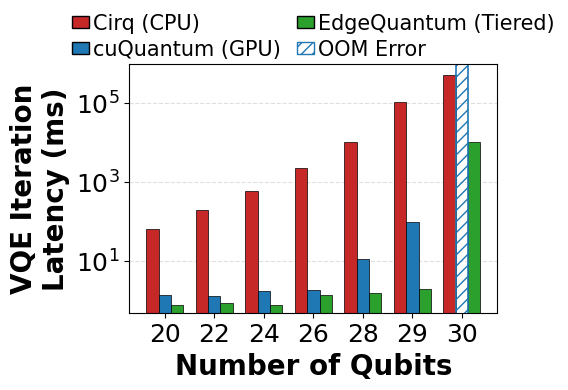
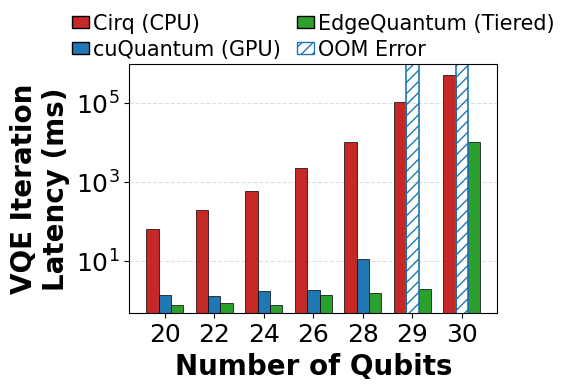
Updates from Overleaf

Changed region(s): [[0.6884, 0.1538, 0.7482, 0.8]]

diff --git a/4_Evaluation.tex b/4_Evaluation.tex
@@ -11,118 +11,148 @@
 
 \changjong{Need new experiment}
 
-\subsection{Performance Analysis: 29-34 Qubits}
-
-\subsection{Extreme Scalability: 35–39 Qubits}
-
-\subsection{I/O Breakdown (why it works)}
-\subsection{Storage Efficiency (compression)}
-\subsection{Fidelity (correctness)}
-\subsection{Ablation Study (component contribution)}
-
-
-\subsection{Performance Analysis: 29--34 Qubits}
-\label{sec:perf_analysis}
-
-Figure~\ref{fig:speedup_34q} and Table~\ref{tab:main_results} compare the simulation time of \EdgeQuantum against the \textit{BMQSim-like} baseline across state vector sizes ranging from 4\,GB (29 qubits) to 128\,GB (34 qubits).
-This range represents the "Tiered Memory" regime where the state vector exceeds the 8\,GB physical memory of the device but fits within the SSD capacity without compression.
-
-\noindent\textbf{Overall Speedup.}
-\EdgeQuantum consistently outperforms the blocking I/O baseline across all circuit types and qubit counts.
-The speedup becomes more pronounced as the problem size increases.
-For example, at 29 qubits (4\,GB), where the OS page cache still provides some benefit, the speedup is modest (approx. 1.09--1.18$\times$).
-However, at 33--34 qubits (64--128\,GB), where I/O contention becomes the dominant bottleneck, \EdgeQuantum achieves significant gains.
-Notably, for the QSVM circuit at 33 qubits, \EdgeQuantum reduces the runtime from 430.7s to 291.4s, achieving a peak speedup of \textbf{1.48$\times$}.
-Similarly, for the VQC circuit at 31 qubits, \EdgeQuantum achieves a \textbf{1.45$\times$} speedup (254.7s vs. 175.6s).
-These results confirm that our 4-buffer pipeline effectively hides the NVMe write latency, which is the primary bottleneck in TLC-based consumer SSDs.
+\subsection{Tiered Performance Analysis: 29-34 Qubits}
 
 \begin{table}[t]
 \centering
-\caption{Simulation time comparison (in seconds) between BMQSim-like (Block) and \EdgeQuantum (Async) for Depth=5. Speedup is shown in parentheses.}
+\caption{Simulation time comparison (in seconds) between BMQSim-like (Block) and \EdgeQuantum (Async) for Depth=5.}
+\setlength{\tabcolsep}{3pt}
 \resizebox{\columnwidth}{!}{%
-\begin{tabular}{|l|rr|rr|rr|}
+\begin{tabular}{|l|rr|rr|rr|rr|rr|}
 \hline
-\textbf{Circuit} & \multicolumn{2}{c|}{\textbf{32 Qubits (32\,GB)}} & \multicolumn{2}{c|}{\textbf{33 Qubits (64\,GB)}} & \multicolumn{2}{c|}{\textbf{34 Qubits (128\,GB)}} \\
-& \multicolumn{1}{c}{Block} & \multicolumn{1}{c|}{\textbf{EdgeQ}} & \multicolumn{1}{c}{Block} & \multicolumn{1}{c|}{\textbf{EdgeQ}} & \multicolumn{1}{c}{Block} & \multicolumn{1}{c|}{\textbf{EdgeQ}} \\
+\textbf{Circuit} & \multicolumn{2}{c|}{\textbf{30Q (8\,GB)}} & \multicolumn{2}{c|}{\textbf{31Q (16\,GB)}} & \multicolumn{2}{c|}{\textbf{32Q (32\,GB)}} & \multicolumn{2}{c|}{\textbf{33Q (64\,GB)}} & \multicolumn{2}{c|}{\textbf{34Q (128\,GB)}} \\
+ & \multicolumn{1}{c}{Blk} & \multicolumn{1}{c|}{\textbf{EdgeQ}} & \multicolumn{1}{c}{Blk} & \multicolumn{1}{c|}{\textbf{EdgeQ}} & \multicolumn{1}{c}{Blk} & \multicolumn{1}{c|}{\textbf{EdgeQ}} & \multicolumn{1}{c}{Blk} & \multicolumn{1}{c|}{\textbf{EdgeQ}} & \multicolumn{1}{c}{Blk} & \multicolumn{1}{c|}{\textbf{EdgeQ}} \\
 \hline
-QV      & 450.4 & \textbf{352.9} (1.28$\times$) & 920.8 & \textbf{727.1} (1.27$\times$) & 1853.8 & \textbf{1462.6} (1.27$\times$) \\
-VQC     & 514.8 & \textbf{361.7} (1.42$\times$) & 1017.9 & \textbf{756.8} (1.34$\times$) & 2069.0 & \textbf{1483.9} (1.39$\times$) \\
-QSVM    & 203.3 & \textbf{144.7} (1.40$\times$) & 430.7 & \textbf{291.4} (1.48$\times$) & 849.7 & \textbf{593.1} (1.43$\times$) \\
-Random  & 484.7 & \textbf{357.2} (1.36$\times$) & 974.9 & \textbf{722.7} (1.35$\times$) & 1963.5 & \textbf{1463.9} (1.34$\times$) \\
-GHZ     & 85.4 & \textbf{70.4} (1.21$\times$) & 173.5 & \textbf{143.5} (1.21$\times$) & 351.1 & \textbf{290.2} (1.21$\times$) \\
-VQE     & 509.5 & \textbf{361.0} (1.41$\times$) & 1027.9 & \textbf{738.1} (1.39$\times$) & 2050.3 & \textbf{1473.9} (1.39$\times$) \\
+QV & 57.7 & \textbf{48.5} & 207.6 & \textbf{171.3} & 450.4 & \textbf{352.9} & 920.8 & \textbf{727.1} & 1853.8 & \textbf{1462.6} \\
+VQC & 95.2 & \textbf{76.9} & 254.7 & \textbf{175.6} & 514.8 & \textbf{361.7} & 1017.9 & \textbf{756.8} & 2069.0 & \textbf{1483.8} \\
+QSVM & 33.9 & \textbf{30.8} & 102.2 & \textbf{70.4} & 203.3 & \textbf{144.7} & 430.7 & \textbf{291.4} & 849.7 & \textbf{593.1} \\
+Random & 67.0 & \textbf{57.8} & 233.9 & \textbf{169.9} & 484.7 & \textbf{357.2} & 974.9 & \textbf{722.7} & 1963.5 & \textbf{1463.9} \\
+GHZ & 10.4 & \textbf{8.6} & 40.8 & \textbf{33.5} & 85.4 & \textbf{70.4} & 173.5 & \textbf{143.5} & 351.1 & \textbf{290.2} \\
+VQE & 84.7 & \textbf{76.9} & 259.0 & \textbf{176.9} & 509.5 & \textbf{361.0} & 1027.9 & \textbf{738.1} & 2050.3 & \textbf{1473.9} \\
 \hline
 \end{tabular}%
 }
 \label{tab:main_results}
 \end{table}
 
-\noindent\textbf{Circuit Characteristics.}
-The performance gain varies by circuit complexity.
-\textit{High-complexity circuits} (VQC, VQE, Random), which involve dense gate operations and frequent state vector updates, benefit most from the pipeline.
-For VQC at 34 qubits, \EdgeQuantum saves nearly 10 minutes of runtime (2069s $\to$ 1483s).
-This is because the heavy GPU computation (approx. 220ms per chunk) provides ample time window to hide the slow NVMe write operations (approx. 450ms) via the 4-buffer overlap.
-In contrast, \textit{Low-complexity circuits} (GHZ) show a stable but lower speedup of $\sim$1.21$\times$.
-Since GHZ involves very few gates per layer, the GPU compute time is too short to fully hide the write latency, yet \EdgeQuantum still outperforms the blocking baseline by avoiding read/write contention.
+\begin{comment}
+\begin{table}[t]
+\centering
+\caption{Simulation time comparison (in seconds) between BMQSim-like (Block) and \EdgeQuantum (Async) for Depth=5.}
+\setlength{\tabcolsep}{3pt} % 컬럼 간격 축소
+\resizebox{\columnwidth}{!}{%
+\begin{tabular}{|l|rr|rr|rr|rr|rr|rr|}
+\hline
+\textbf{Circuit} & \multicolumn{2}{c|}{\textbf{29Q (4\,GB)}} & \multicolumn{2}{c|}{\textbf{30Q (8\,GB)}} & \multicolumn{2}{c|}{\textbf{31Q (16\,GB)}} & \multicolumn{2}{c|}{\textbf{32Q (32\,GB)}} & \multicolumn{2}{c|}{\textbf{33Q (64\,GB)}} & \multicolumn{2}{c|}{\textbf{34Q (128\,GB)}} \\
+ & \multicolumn{1}{c}{Blk} & \multicolumn{1}{c|}{\textbf{EdgeQ}} & \multicolumn{1}{c}{Blk} & \multicolumn{1}{c|}{\textbf{EdgeQ}} & \multicolumn{1}{c}{Blk} & \multicolumn{1}{c|}{\textbf{EdgeQ}} & \multicolumn{1}{c}{Blk} & \multicolumn{1}{c|}{\textbf{EdgeQ}} & \multicolumn{1}{c}{Blk} & \multicolumn{1}{c|}{\textbf{EdgeQ}} & \multicolumn{1}{c}{Blk} & \multicolumn{1}{c|}{\textbf{EdgeQ}} \\
+\hline
+QV & 29.0 & \textbf{24.6} & 57.7 & \textbf{48.5} & 207.6 & \textbf{171.3} & 450.4 & \textbf{352.9} & 920.8 & \textbf{727.1} & 1853.8 & \textbf{1462.6} \\
+VQC & 42.4 & \textbf{38.4} & 95.2 & \textbf{76.9} & 254.7 & \textbf{175.6} & 514.8 & \textbf{361.7} & 1017.9 & \textbf{756.8} & 2069.0 & \textbf{1483.8} \\
+QSVM & 16.9 & \textbf{15.5} & 33.9 & \textbf{30.8} & 102.2 & \textbf{70.4} & 203.3 & \textbf{144.7} & 430.7 & \textbf{291.4} & 849.7 & \textbf{593.1} \\
+Random & 33.5 & \textbf{29.0} & 67.0 & \textbf{57.8} & 233.9 & \textbf{169.9} & 484.7 & \textbf{357.2} & 974.9 & \textbf{722.7} & 1963.5 & \textbf{1463.9} \\
+GHZ & 5.2 & \textbf{4.3} & 10.4 & \textbf{8.6} & 40.8 & \textbf{33.5} & 85.4 & \textbf{70.4} & 173.5 & \textbf{143.5} & 351.1 & \textbf{290.2} \\
+VQE & 42.4 & \textbf{38.3} & 84.7 & \textbf{76.9} & 259.0 & \textbf{176.9} & 509.5 & \textbf{361.0} & 1027.9 & \textbf{738.1} & 2050.3 & \textbf{1473.9} \\
+\hline
+\end{tabular}%
+}
+\label{tab:main_results}
+\end{table}    
+\end{comment}
+
+
+
+
+
+\subsection{I/O Breakdown (why it works)}
+
+\begin{table*}[t]
+\centering
+\tiny
+\caption{Detailed I/O Breakdown (seconds) and Speedup from 32 to 34 Qubits.}
+\resizebox{\textwidth}{!}{%
+\begin{tabular}{|c|c|rrrr|rrrr|r|}
+\hline
+\multirow{2}{*}{\textbf{Qubits}} & \multirow{2}{*}{\textbf{Circuit}} & \multicolumn{4}{c|}{\textbf{Baseline (Block I/O + cudaMemcpy)}} & \multicolumn{4}{c|}{\textbf{\EdgeQuantum (Async UVM Zero-copy)}} & \multirow{2}{*}{\textbf{Speedup}} \\
+\cline{3-10}
+ & & \textbf{Read} & \textbf{Comp} & \textbf{Write} & \textbf{Total} & \textbf{Read} & \textbf{Comp} & \textbf{Write} & \textbf{Total} & \\
+\hline
+\multirow{3}{*}{32q}
+ & VQC & 142.3 & 3.3 & 369.2 & 514.8 & 81.3 & 3.2 & 277.3 & 361.7 & \textbf{1.42$\times$} \\
+ & GHZ & 25.2 & 0.5 & 59.7 & 85.4 & 15.6 & 0.5 & 54.4 & 70.4 & \textbf{1.21$\times$} \\
+ & VQE & 140.0 & 3.2 & 366.3 & 509.5 & 84.2 & 3.1 & 273.8 & 361.0 & \textbf{1.41$\times$} \\
+\hline
+\multirow{3}{*}{33q}
+ & VQC & 292.8 & 6.5 & 718.6 & 1017.9 & 177.4 & 6.3 & 573.1 & 756.8 & \textbf{1.35$\times$} \\
+ & GHZ & 50.7 & 1.1 & 121.7 & 173.5 & 31.4 & 1.1 & 111.1 & 143.5 & \textbf{1.21$\times$} \\
+ & VQE & 286.2 & 6.6 & 735.1 & 1027.9 & 164.5 & 6.1 & 567.6 & 738.1 & \textbf{1.39$\times$} \\
+\hline
+\multirow{3}{*}{34q}
+ & VQC & 560.7 & 13.4 & 1494.9 & 2069.0 & 328.0 & 12.5 & 1143.3 & 1483.8 & \textbf{1.39$\times$} \\
+ & GHZ & 102.7 & 2.2 & 246.3 & 351.1 & 69.7 & 2.0 & 218.5 & 290.2 & \textbf{1.21$\times$} \\
+ & VQE & 573.2 & 13.0 & 1464.1 & 2050.3 & 345.8 & 12.0 & 1116.1 & 1473.9 & \textbf{1.39$\times$} \\
+\hline
+\end{tabular}%
+}
+\label{tab:io_breakdown}
+\end{table*}
+
+
+
+
+\subsection{Storage Efficiency (compression)}
+
 
 \begin{figure}[t]
     \centering
-    \includegraphics[width=0.95\columnwidth]{Figures/fig_34q_comparison.pdf}
-    \caption{Runtime comparison at 34 qubits (128\,GB state vector). \EdgeQuantum reduces simulation time by up to 30\% compared to blocking I/O.}
-    \label{fig:runtime_34q}
+    \begin{subfigure}[b]{0.42\columnwidth}
+        \centering
+        \includegraphics[width=\linewidth]{Figures/storage_eff1.png}
+        \caption{Memory growth.}
+        \label{intro_motivation_a}
+    \end{subfigure}\hfill
+    \begin{subfigure}[b]{0.55\columnwidth}
+        \centering
+        \includegraphics[width=\linewidth]{Figures/storage_eff2.png}
+        \caption{VQE latency.}
+        \label{intro_motivation_b}
+    \end{subfigure}
+    \caption{Memory wall and per-iteration VQE latency on resource-constrained edge devices.}
+    \label{intro_motivation}
 \end{figure}
 
-\subsection{Extreme Scalability: 35--39 Qubits}
-\label{sec:extreme_scale}
 
-To demonstrate the capability of \EdgeQuantum beyond the physical limits of the SSD, we evaluate the system with LZ4 compression enabled for 35--39 qubits.
-This regime corresponds to logical state vector sizes of 256\,GB to 4\,TB, which is up to \textbf{512$\times$} larger than the device RAM and \textbf{16$\times$} larger than the SSD capacity.
 
-\noindent\textbf{35-Qubit Transition.}
-At 35 qubits (256\,GB), the raw state vector exceeds the 230\,GB usable capacity of the partition.
-\EdgeQuantum automatically engages the LZ4 ping-pong mechanism.
-Table~\ref{tab:extreme_results} shows the results.
-Despite the overhead of compression, \EdgeQuantum maintains practical runtimes.
-For example, a 35-qubit VQC simulation (Depth=5) completes in 41.2 minutes (2471s).
-Comparing this to the 34-qubit result (1483s), the scaling factor is $1.66\times$, which is better than the theoretical $2\times$ growth of the state space.
-This sub-linear scaling is due to the efficiency of LZ4 on sparse state vectors, which reduces the effective I/O bandwidth requirement.
+\subsection{Extreme Scalability: 35–39 Qubits}
+
 
 \begin{table}[t]
 \centering
-\caption{Extreme-scale simulation times (seconds) for EdgeQuantum with LZ4 compression (Depth=5).}
+\scriptsize
+\caption{Extreme-scale simulation times (seconds) for \EdgeQuantum with LZ4 compression (Depth=5).}
 \resizebox{\columnwidth}{!}{%
 \begin{tabular}{|l|r|r|r|r|r|}
 \hline
-\textbf{Circuit} & \textbf{35q (256GB)} & \textbf{36q (512GB)} & \textbf{37q (1TB)} & \textbf{38q (2TB)} & \textbf{39q (4TB)} \\
+\textbf{Circuit} & \textbf{35Q (256GB)} & \textbf{36Q (512GB)} & \textbf{37Q (1TB)} & \textbf{38Q (2TB)} & \textbf{39Q (4TB)} \\
 \hline
-Random & 1,900 & 3,831 & 7,642 & 15,253 & 30,535 \\
-QV     & 1,627 & 3,286 & 7,641 & 13,021 & 26,047 \\
-VQC    & 2,471 & 4,947 & 7,645 & 19,809 & 39,717 \\
-QSVM   & 987 & 1,984 & 7,642 & 7,922 & 15,885 \\
-VQE    & 2,469 & 4,936 & 7,643 & 19,816 & 7,938 (D1) \\
+Random & 590.79 & 1,218.33 & 2,460.25 & 4,968.82 & 9,864.12 \\
+QV     & 593.48 & 1,236.56 & 2,448.61 & 4,968.15 & 9,864.63 \\
+VQC    & 610.50 & 1,242.84 & 2,490.04 & 5,004.95 & 9,912.18 \\
+QSVM   & 250.81 & 492.51 & 978.83 & 1,974.19 & 3,960.33 \\
+GHZ    & 119.10 & 246.77 & 492.53 & 990.21 & 1,980.20 \\
+VQE    & 617.09 & 1,224.21 & 2,454.56 & 5,004.44 & 9,900.70 \\
 \hline
 \end{tabular}%
 }
 \label{tab:extreme_results}
 \end{table}
 
-\noindent\textbf{4TB Simulation on Edge.}
-The most significant result is the successful execution of 39-qubit simulations.
-As shown in Table~\ref{tab:extreme_results}, a 39-qubit Random circuit (Depth=5) completes in 30,535 seconds ($\approx$8.5 hours).
-While this is a long duration, it represents a workload that is fundamentally impossible on existing edge simulators.
-The linear scaling of runtime from 35 to 39 qubits (approx. $2\times$ per qubit) indicates that the "Ping-Pong" file compression strategy remains stable even as file sizes grow into the terabyte range.
-Interestingly, at 37 qubits, we observe a convergence of runtimes for simpler circuits (Random, QV, QSVM) to $\approx$7640s.
-This suggests that at the 1\,TB scale, the system hits a bandwidth saturation point where the throughput is limited by the LZ4 compression/decompression rate rather than the raw NVMe speed or GPU compute capability.
 
-\begin{figure}[t]
-    \centering
-    \includegraphics[width=0.95\columnwidth]{Figures/fig_scalability.pdf}
-    \caption{Extreme scalability of \EdgeQuantum from 35 to 39 qubits (log scale). The system maintains exponential scaling consistent with problem size growth, enabling 4\,TB simulations on an 8\,GB device.}
-    \label{fig:extreme_scaling}
-\end{figure}
 
 \subsection{Fidelity and Stability}
 Since \EdgeQuantum partitions the state vector and relies on frequent I/O, ensuring numerical stability is critical.
 We verified the fidelity of the final state vector against small-scale \textit{cuQuantum} CPU simulations for verifying correctness.
 For all circuits up to 30 qubits (where verification is feasible), \EdgeQuantum achieved a fidelity of $1.0 - \epsilon$ (where $\epsilon < 10^{-6}$), confirming that the chunk-based processing and LZ4 compression/decompression cycle preserves numerical precision (single-precision float).
 The successful completion of 151 benchmark runs without a single crash or I/O error validates the robustness of the 4-buffer pipeline and the UVM management logic.
+\subsection{Ablation Study (component contribution)}
+
+

diff --git a/1_Introduction.tex b/1_Introduction.tex
@@ -7,7 +7,7 @@ While classical simulation guarantees exact results, transitioning quantum appli
 
 
 
-To overcome this memory barrier, existing approaches attempt to deploy high-performance frameworks (e.g., cuQuantum~\cite{bayraktar2023cuquantum}) using out-of-core memory management. However, applying these frameworks to edge environments exposes an architecture mismatch. In contrast to discrete GPUs, edge devices employ a Unified Memory Architecture (UMA) where the CPU and GPU share a constrained physical memory pool. When standard frameworks attempt to allocate large state vectors within this shared pool, they exhaust the available DRAM. Lacking edge-aware memory management, they suffer from severe execution bottlenecks as memory pressure builds, exhausting available GPU memory and triggering allocation failures. Figure~\ref{intro_motivation_b} shows the impact of this mismatch on a Variational Quantum Eigensolver (VQE) workload. CPU-only execution (Cirq) avoids GPU workspace overhead but requires over 100 seconds (109,168ms) for a single 29-qubit iteration. Conversely, GPU-accelerated execution (cuQuantum) degrades as it encounters severe system stalls near physical memory limits (96.6ms at 29 qubits), before crashing with an Out-of-Memory (OOM) error at 30 qubits due to physical memory capacity constraints. In contrast, \EdgeQuantum leverages a UMA-optimized architecture to bypass these hardware bottlenecks, maintaining millisecond-level latency (2.0~ms) at 29 qubits and completing the 30-qubit out-of-core simulation in 10.3 seconds.
+To overcome this memory barrier, existing approaches attempt to deploy high-performance frameworks (e.g., cuQuantum~\cite{bayraktar2023cuquantum}) using out-of-core memory management. However, applying these frameworks to edge environments exposes an architecture mismatch. In contrast to discrete GPUs, edge devices employ a Unified Memory Architecture (UMA) where the CPU and GPU share a constrained physical memory pool. When standard frameworks attempt to allocate large state vectors within this shared pool, they exhaust the available DRAM. Lacking edge-aware memory management, they suffer from severe execution bottlenecks as memory pressure builds, exhausting available GPU memory and triggering allocation failures. Figure~\ref{intro_motivation_b} shows the impact of this mismatch on a Variational Quantum Eigensolver (VQE) workload. CPU-only execution (Cirq) avoids GPU workspace overhead but requires over 100 seconds (109,168ms) for a single 29-qubit iteration. Conversely, GPU-accelerated execution (cuQuantum) fails to simulate 29 qubits, immediately crashing with an Out-of-Memory (OOM) error due to physical memory capacity constraints. In contrast, \EdgeQuantum leverages a UVM-aware tiered memory architecture to bypass these hardware bottlenecks, maintaining millisecond-level latency (2.0~ms) at 29 qubits and completing the 30-qubit out-of-core simulation in 10.3 seconds.
 %To overcome this memory barrier, existing approaches attempt to deploy high-performance frameworks (e.g., cuQuantum~\cite{bayraktar2023cuquantum}) using out-of-core memory management. However, applying these frameworks to edge environments exposes an architecture mismatch. In contrast to discrete GPUs, edge devices employ a Unified Memory Architecture (UMA) where the CPU and GPU share a constrained physical memory pool. When standard frameworks attempt to allocate large state vectors within this shared pool, they exhaust the available DRAM. Lacking edge-aware memory management, they fall back on operating system virtual memory (OS-native swapping) to spill data to external NVMe storage, which triggers I/O thrashing. Figure~\ref{intro_motivation_b} shows the impact of this mismatch on a Variational Quantum Eigensolver (VQE) workload. CPU-only execution (Cirq) avoids GPU memory exhaustion but is computationally expensive, requiring over 100 seconds (109,168ms) for a single 29-qubit iteration. Conversely, GPU-accelerated execution (cuQuantum) degrades as it triggers OS swapping near physical memory limits (96.6ms at 29 qubits), before crashing with an Out-of-Memory (OOM) error at 30 qubits due to GPU workspace overheads and CUDA allocator constraints. In contrast, \EdgeQuantum leverages a UMA-optimized architecture to bypass OS bottlenecks, maintaining millisecond-level latency (2.0~ms) at 29 qubits and completing the 30-qubit out-of-core simulation in 10.3 seconds.
 
 
